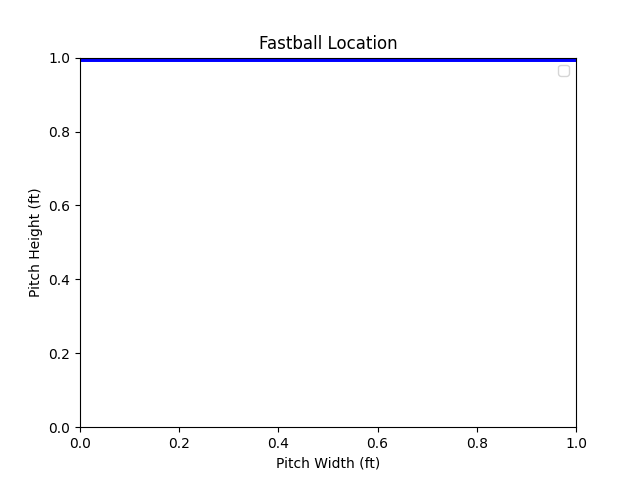
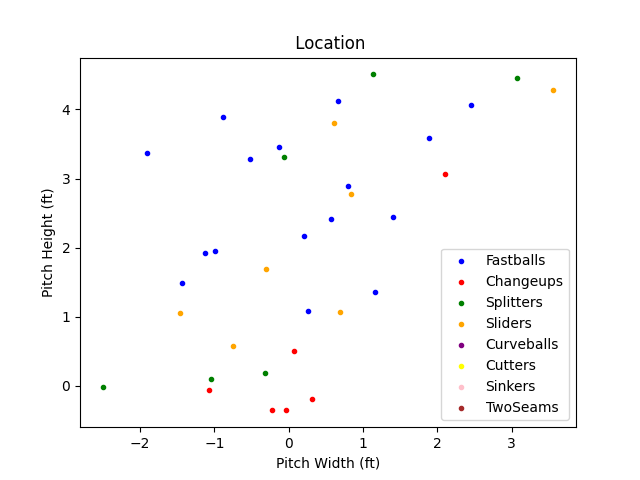
Add all pitch plot

diff --git a/filereader.py b/filereader.py
@@ -43,27 +43,78 @@ def writePitcherData():
       f.write(pitcherString)
       print(str(player) + "\n" + str(player.avgFastball()) + "\n" + str(player.avgChangeup()) + "\n"+ str(player.avgCurveball()) + "\n"+ str(player.avgSlider()) + "\n"+ str(player.avgSplitter()) + "\n" + str(player.avgCutter()) + "\n" + str(player.avgSinker()) + "\n" + str(player.avgTwoSeam()) + "\n")
 
-#def pltFastballs(Pitcher): 
-xSet = []
-ySet = []
-for pitch in pitchers[10].pitches:
-    if pitch.ptype == "Fastball":
-        xSet.append(float(pitch.plside))
-        ySet.append(float(pitch.plheight))
+def pltPitches(Player): 
+  xFast = []
+  yFast = []
 
-plt.scatter(xSet, ySet, label= "Fastballs", c= "blue", marker= ".")
-fig, ax = plt.subplots()   
-plt.xlabel('Pitch Width (ft)')
+  xChup = []
+  yChup = []
 
-plt.ylabel('Pitch Height (ft)')
+  xSplit = []
+  ySplit = []
 
-ax.add_patch(Rectangle((1, 1), -1, 1, edgecolor = 'blue', facecolor = 'blue', fill=False, lw=5))
-plt.title("Fastball Location")
+  xSlid = []
+  ySlid = []
 
-plt.legend()
+  xCurv = []
+  yCurv = []
 
-plt.show()
-plt.savefig('FastballPlot.png')
+  xSink = []
+  ySink = []
 
-#pltFastballs(pitchers[0])
+  xTsea = []
+  yTsea = []
+
+  xCutt = []
+  yCutt = []
+
+  for pitch in Player.pitches:
+      if pitch.ptype == "Fastball":
+        xFast.append(float(pitch.plside))
+        yFast.append(float(pitch.plheight))
+      elif pitch.ptype == "ChangeUp":
+        xChup.append(float(pitch.plside))
+        yChup.append(float(pitch.plheight))
+      elif pitch.ptype == "Splitter":
+        xSplit.append(float(pitch.plside))
+        ySplit.append(float(pitch.plheight))
+      elif pitch.ptype == "Slider":
+        xSlid.append(float(pitch.plside))
+        ySlid.append(float(pitch.plheight))
+      elif pitch.ptype == "Curveball":
+        xCurv.append(float(pitch.plside))
+        yCurv.append(float(pitch.plheight))
+      elif pitch.ptype == "Sinker":
+        xSink.append(float(pitch.plside))
+        ySink.append(float(pitch.plheight))
+      elif pitch.ptype == "TwoSeamFastball":
+        xTsea.append(float(pitch.plside))
+        yTsea.append(float(pitch.plheight))
+      elif pitch.ptype == "Cutter":
+        xCutt.append(float(pitch.plside))
+        yCutt.append(float(pitch.plheight))
+      
+
+  plt.scatter(xFast, yFast, label= "Fastballs", c= "blue", marker= ".")
+  plt.scatter(xChup, yChup, label= "Changeups", c= "red", marker= ".")
+  plt.scatter(xSplit, ySplit, label= "Splitters", c= "green", marker= ".")
+  plt.scatter(xSlid, ySlid, label= "Sliders", c= "orange", marker= ".")
+  plt.scatter(xCurv, yCurv, label= "Curveballs", c= "purple", marker= ".")
+  plt.scatter(xCutt, yCutt, label= "Cutters", c= "yellow", marker= ".")
+  plt.scatter(xSink, ySink, label= "Sinkers", c= "pink", marker= ".")
+  plt.scatter(xTsea, yTsea, label= "TwoSeams", c= "brown", marker= ".")
+  #fig, ax = plt.subplots()   
+  plt.xlabel('Pitch Width (ft)')
+
+  plt.ylabel('Pitch Height (ft)')
+
+  #ax.add_patch(Rectangle((1, 1), -1, 1, edgecolor = 'blue', facecolor = 'blue', fill=False, lw=5))
+  plt.title(" Location")
+
+  plt.legend()
+
+  plt.show()
+  plt.savefig((str(Player.name) + 'Pitches.png'))
+
+pltPitches(pitchers[10])
 writePitcherData()
